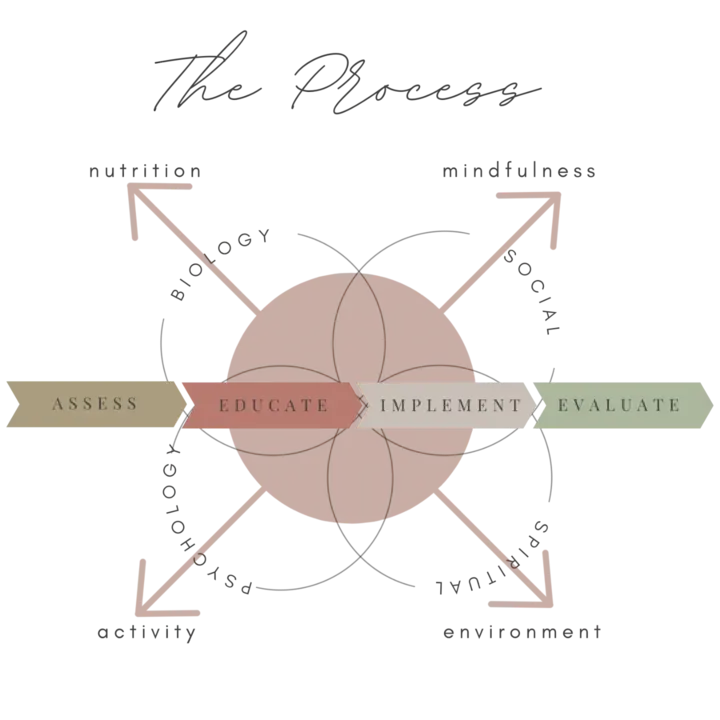
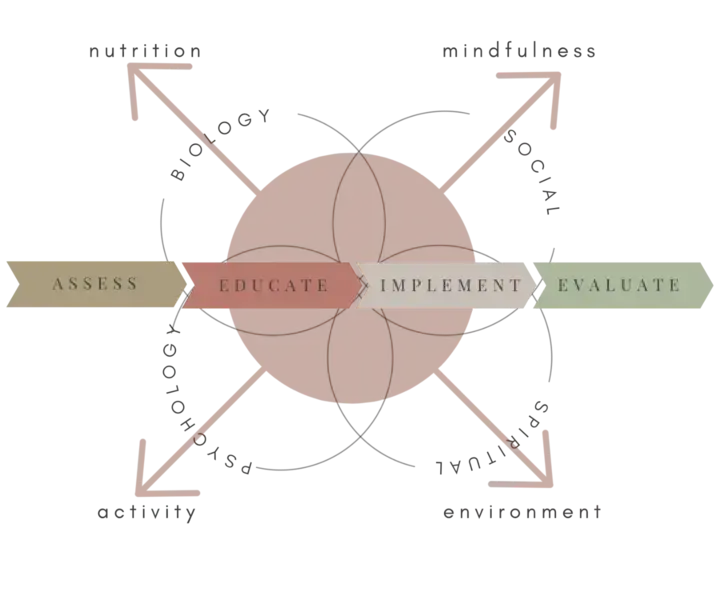
Update The Intention Process section on homepage
- Title "The Intention Process" now uses Beautifully Delicious script font
- Subtitle uses Poppins uppercase with letter-spacing
- Cropped process graphic images to remove "The Process" title text
- Updated image dimensions in index.html and about.html

🤖 Generated with [Claude Code](https://claude.com/claude-code)

Changed region(s): [[0.0, 0.03, 1.0, 0.9], [0.4278, 0.18, 0.4583, 0.21], [0.1222, 0.21, 0.1528, 0.24]]

diff --git a/index.html b/index.html
@@ -343,17 +343,17 @@
     <section class="section not-alone bg-cream" data-track-section="intention-process">
       <div class="container">
         <div class="text-center mb-lg">
-          <h2>The Intention Process</h2>
-          <p class="text-muted">Your wellness journey is about progress, not perfection.</p>
+          <h2 class="font-script">The Intention Process</h2>
+          <p class="text-muted" style="font-family: 'Poppins', sans-serif; text-transform: uppercase; letter-spacing: 0.1em; font-size: 0.9rem;">Your wellness journey is about progress, not perfection.</p>
         </div>
 
         <div class="process-graphic-container">
           <img src="/images/the-process.webp"
-               srcset="/images/the-process-small.webp 480w,
+               srcset="/images/the-process-small.webp 500w,
                        /images/the-process-medium.webp 720w,
                        /images/the-process.webp 1440w"
-               sizes="(max-width: 480px) 480px, (max-width: 768px) 720px, 1440px"
-               alt="The Intention Process - Assess, Educate, Implement, Evaluate with holistic elements: nutrition, mindfulness, biology, social, psychology, spiritual, activity, environment" class="process-graphic" width="1440" height="1440" loading="lazy">
+               sizes="(max-width: 500px) 500px, (max-width: 768px) 720px, 1440px"
+               alt="Assess, Educate, Implement, Evaluate - holistic elements: nutrition, mindfulness, biology, social, psychology, spiritual, activity, environment" class="process-graphic" width="1440" height="1200" loading="lazy">
         </div>
 
         <div class="grid grid-3 mt-lg">

diff --git a/about.html b/about.html
@@ -225,9 +225,9 @@
                        /images/the-process-medium.webp 720w,
                        /images/the-process.webp 1440w"
                sizes="(max-width: 600px) 100vw, 600px"
-               alt="The Intention Process - Assess, Educate, Implement, Evaluate"
+               alt="Assess, Educate, Implement, Evaluate - holistic wellness elements"
                class="process-graphic"
-               width="500" height="500"
+               width="500" height="417"
                loading="lazy"
                style="max-width: 600px; width: 100%; height: auto; margin: var(--spacing-lg) auto;">
         </div>
